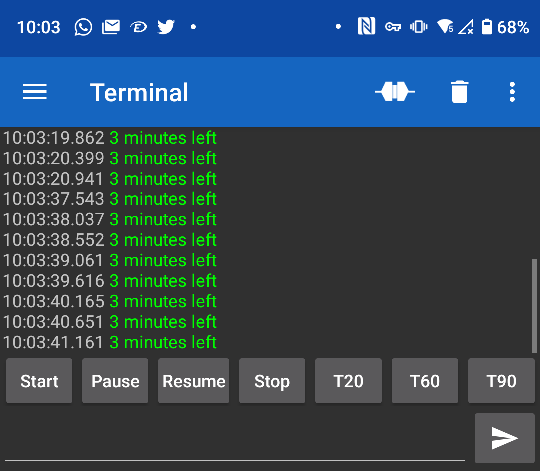
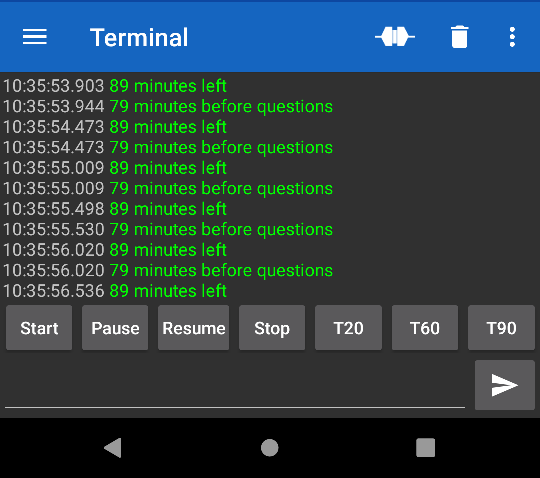
add instructions

diff --git a/README.md b/README.md
@@ -6,40 +6,54 @@ Color Time
 1. [What is it?](#what)
 2. [How does it work?](#how)
 3. [Build it](#build)
+4. [Usage](#usage)
+5. [Credits](#credits)
 
-## What is it? <a name="what"></a>
-During scientific talks it is sometimes difficult, or akward, for the chairmen to warn speakers that they are exceeding their allotted time.
-We developped a device, 
-designed to be placed between the speaker and the audiance, 
+## 1. What is it? <a name="what"></a>
+During scientific talks it is sometimes difficult, or awkward, for the chairmen to warn speakers that they are exceeding their allotted time.
+We developed a device, 
+designed to be placed between the speaker and the audience, 
 that indicates using a color coded light how much time they have left. 
 It also signals the time for question and the end of the allotted time with color flashes.
 
-## How does it work? <a name="how"></a>
+## 2. How does it work? <a name="how"></a>
 
 
-## Build it
-### Bill of materials
+## 3. Build it <a name="build"></a>
+### 3.1 Bill of materials
 * 1x Raspberry Pi Pico
+* 1. 6x6x4.5mm push button
 * 1x 61-LED [[buy](https://www.amazon.fr/gp/product/B07L7ZPPV9/ref=ppx_yo_dt_b_asin_title_o00_s00?ie=UTF8&psc=1)] [[instructions](https://www.make-it.ca/ws2812-neopixel-ring-to-attiny85/)]
 * 1x HC-05 (or HC-06) Bluetooth board [Optional]
 * White and black (or colored) PLA for 3d printed parts
 
-### Assembly
+### 3.2 Assembly
 
-### Soldering
+### 3.3 Button
+
+![image](pictures/pushbutton.png)
+
+Solder the two pins of the button, one to a `GND` pin of the board, the other to pin `GP9`.
+Be careful to pass the wire through the hole before soldering them the the board.
+
+<img src="pictures/pinoutButton.png"  width="400">
+
+Then, push the button into the designated hole. 
+Ideally, make it so the button sticks out a little bit. 
+This way, you can press directly on the white dome to press the button. 
+
 
 #### LEDs
 Simply follow the tutorial [here](https://www.make-it.ca/ws2812-neopixel-ring-to-attiny85/) for soldering the different rings. 
-Then solder the DI digital input to GPIO 20. Use VBUS (usb power) for VCC and any GND pin for ground.
+Then solder the `DI` digital input to `GP20`. Use `VBUS` (usb power) for `Vcc` and any `GND` pin for ground.
 
-<img src="pictures/pinoutLEDs.png"  width="300">
+<img src="pictures/pinoutLEDs.png"  width="400">
 
-![image](pictures/pinoutLEDs.png)
 
-### Blueooth [optional]
+### 3.4 Blueooth [optional]
 
-Once every thing soldered, place the pico board so that the 
-micro-usb socket is propery in place. 
+Once every thing soldered, place the Pico board so that the 
+micro-usb socket is properly in place. 
 You should be able to plug a power cord without moving the board.
 You can keep the Pico in place with one drop of glue gun in the corners of the board.
 
@@ -47,16 +61,44 @@ You can keep the Pico in place with one drop of glue gun in the corners of the b
 
 ![image](pictures/assembly_2.jpg)
 
-### Final assembly
+### 3.5 Final assembly
 
-Use a glue gun to keep the leds in place and final snap the top white dome onto the base. 
+Use a glue gun to keep the LEDs in place and final snap the top white dome onto the base. 
 And you are done!
 
-## Usage
+## 4. Usage
+
+### 4.1 Preparation
+If you intend to use the device without bluetooth, 
+you need to set up few parameters in the code. 
+However, you could make it work out of the box with just editing 
+`state_time` to fit the duration of the talks.
+
+* `state_time`: the list of different time for talks in minutes. 
+  **Do not edit the first one** as it correspond to the demo of a duration of 20 seconds and for which the time for question is modified to be equal to 10 seconde, regardless of the value of `T_QUESTION`
+* `state_colors`: list of colors for the different times. 
+  Each color should be a list or tuple of three integers between 0 and 255. 
+  This list should be of the same length as `state_time`
+* `T_QUESTION`: time allotted for question. 
+  The device will flash red for 4 seconds `T_QUESTION` minutes before the end of the talk.
+* `BRIGHTNESS_MIN`: brightness at the beginning of the countdown.
+* `BRIGHTNESS_MAX`:  brightness at the END of the countdown.
+* `BRIGHTNESS_FLASH`: brightness for the flashes for the question signal and the end of the talk.
+  
+### 4.2 Power source
+
+Plug the device to any power source using a micro-USB cable. 
+A small power bank is typically enough for hours of usage.
+
+### 4.3 Button commands
+
+* `Single press`: switch to the next state (duration of talk) and start the count down.
+* `Double press`: pause the countdown without stopping it. 
+  `Single press` again to resume.
+* `Long press`: stop the countdown and switch of the LEDs. 
 
 
-### Button commands
-### Bluetooth communication
+### 4.4 Bluetooth communication
 
 Communication is done using ASCII text message over a serial protocol. 
 
@@ -65,9 +107,9 @@ Commands are the following:
 * `START`: start the countdown,
 * `PAUSE`: pause the countdown, 
 * `RESUME`: resume the countdown after pause,
-* `STOP`: stop the countdown and swith of the LEDs
+* `STOP`: stop the countdown and switch of the LEDs
 * `T{X}`: specify the time (in minutes) for a countdown and starts it, 
-for instance T20 sets a countdonw for a 20-minute talk,
+for instance `T20` sets a countdown for a 20-minute talk,
 * `C{X}`: change the remaining time to `X` minutes.
 
 #### Android phone
@@ -77,3 +119,11 @@ Use the serial terminal to send commands or use buttons.
 To configure a button, long press on it, give it a name and set the commands. This is how it looks like:
 
 ![image](pictures/android.png)
+
+Additionally, the device will send information about the time left before the questions and before the end of the talk.
+
+## Credits
+
+* Idea: Fabrice Lemoult
+* Design: Sébastien M. Popoff
+* Tets: Sébastien M. Popoff, Romain Pierrat and F. Lemoult
